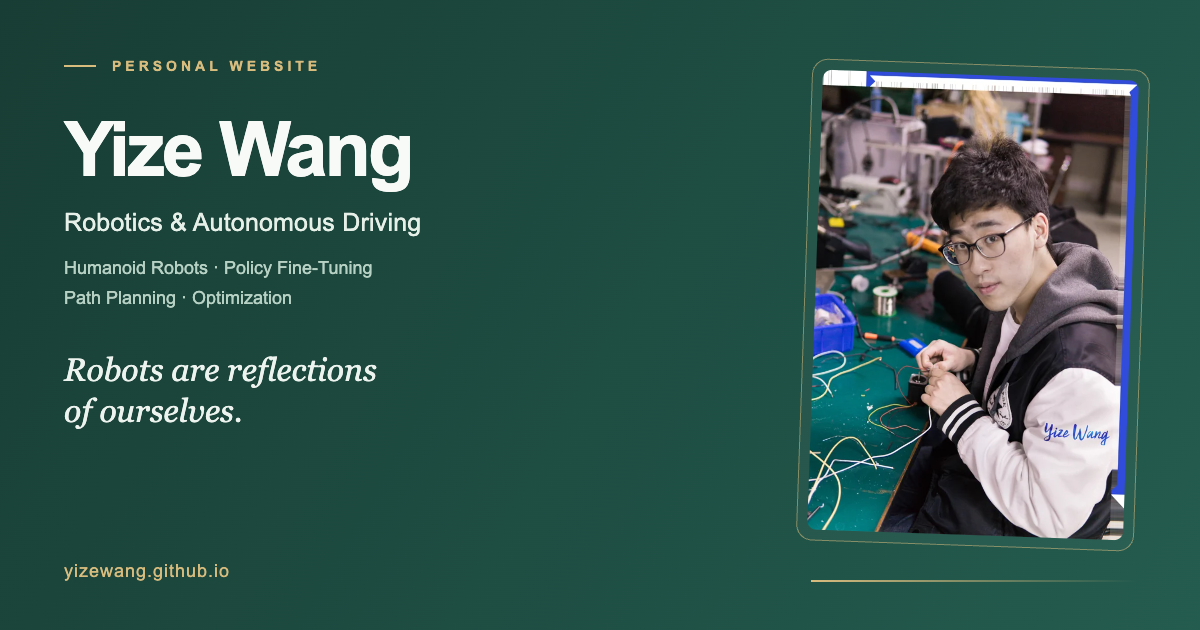
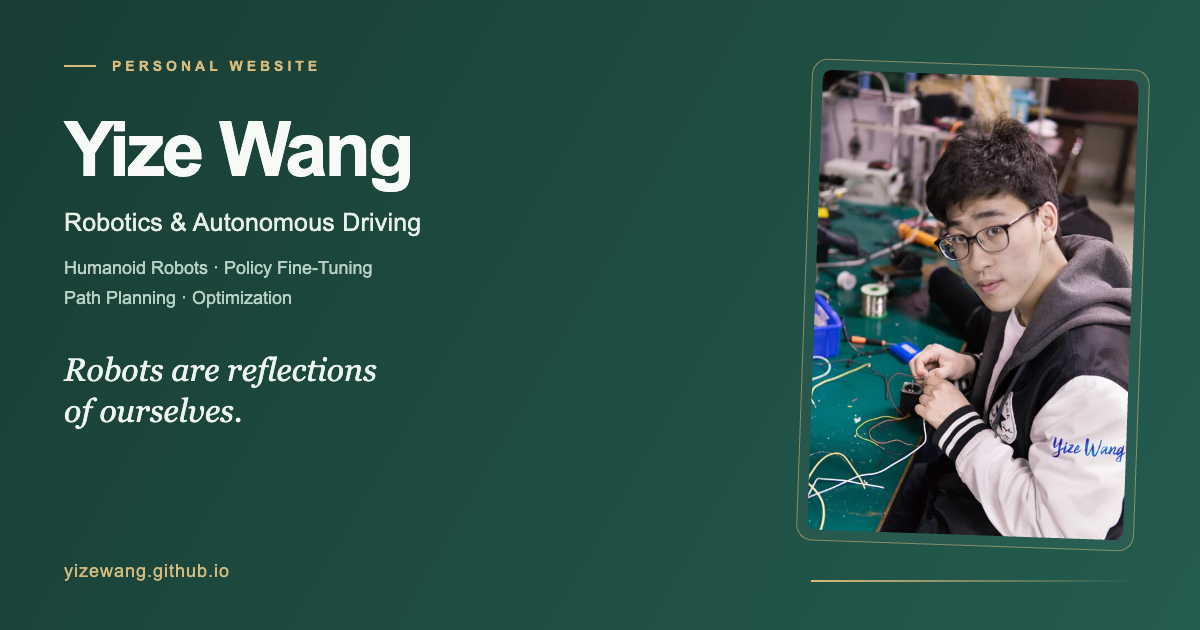
Crop embedded portrait borders from the social preview card

Changed region(s): [[0.6475, 0.0905, 0.9558, 0.8746]]

diff --git a/data/social-preview.html b/data/social-preview.html
@@ -1,3 +1,3 @@
 <!doctype html><html lang="en"><head><meta charset="utf-8"><style>
-*{box-sizing:border-box}html,body{margin:0;width:1200px;height:630px;overflow:hidden}body{font-family:Arial,sans-serif;background:#1d4b40;color:#f7faf7}.card{height:630px;position:relative;padding:58px 64px;background:linear-gradient(120deg,#183d34,#245c4f)}.top{font-size:14px;font-weight:600;letter-spacing:4px;color:#d8bc7e;display:flex;align-items:center;gap:16px}.top:before{content:'';width:32px;height:2px;background:#d8bc7e}h1{font-size:76px;letter-spacing:-3px;line-height:1.1;margin:34px 0 16px;font-weight:700}.role{font-size:25px;letter-spacing:.2px;color:#e6f0e9;margin:0}.focus{font-size:18px;color:#b8d1c5;margin:16px 0 0;line-height:1.7}.quote{font:italic 32px/1.3 Georgia,serif;color:#edf3ee;margin:36px 0 0}.url{position:absolute;left:64px;bottom:48px;font-size:18px;letter-spacing:1px;color:#d8bc7e}.photo-wrap{position:absolute;right:58px;top:64px;width:338px;height:482px;border:1px solid #d8bc7e88;border-radius:16px;padding:10px;background:#ffffff08;transform:rotate(2deg)}.photo{width:100%;height:100%;object-fit:cover;object-position:50% 30%;border-radius:9px}.rule{position:absolute;right:64px;bottom:48px;width:325px;height:2px;background:linear-gradient(90deg,#d8bc7e,#d8bc7e00)}
-</style></head><body><div class="card"><div class="top">PERSONAL WEBSITE</div><h1>Yize Wang</h1><p class="role">Robotics &amp; Autonomous Driving</p><p class="focus">Humanoid Robots · Policy Fine-Tuning<br>Path Planning · Optimization</p><p class="quote">Robots are reflections<br>of ourselves.</p><div class="url">yizewang.github.io</div><div class="photo-wrap"><img class="photo" src="../images/previews/portrait_orig.webp" alt="Yize Wang"></div><div class="rule"></div></div></body></html>
+*{box-sizing:border-box}html,body{margin:0;width:1200px;height:630px;overflow:hidden}body{font-family:Arial,sans-serif;background:#1d4b40;color:#f7faf7}.card{height:630px;position:relative;padding:58px 64px;background:linear-gradient(120deg,#183d34,#245c4f)}.top{font-size:14px;font-weight:600;letter-spacing:4px;color:#d8bc7e;display:flex;align-items:center;gap:16px}.top:before{content:'';width:32px;height:2px;background:#d8bc7e}h1{font-size:76px;letter-spacing:-3px;line-height:1.1;margin:34px 0 16px;font-weight:700}.role{font-size:25px;letter-spacing:.2px;color:#e6f0e9;margin:0}.focus{font-size:18px;color:#b8d1c5;margin:16px 0 0;line-height:1.7}.quote{font:italic 32px/1.3 Georgia,serif;color:#edf3ee;margin:36px 0 0}.url{position:absolute;left:64px;bottom:48px;font-size:18px;letter-spacing:1px;color:#d8bc7e}.photo-wrap{position:absolute;right:58px;top:64px;width:338px;height:482px;border:1px solid #d8bc7e88;border-radius:16px;padding:10px;background:#ffffff08;transform:rotate(2deg)}.photo-window{width:100%;height:100%;overflow:hidden;border-radius:9px}.photo{width:100%;height:100%;object-fit:cover;object-position:50% 30%;transform:scale(1.12)}.rule{position:absolute;right:64px;bottom:48px;width:325px;height:2px;background:linear-gradient(90deg,#d8bc7e,#d8bc7e00)}
+</style></head><body><div class="card"><div class="top">PERSONAL WEBSITE</div><h1>Yize Wang</h1><p class="role">Robotics &amp; Autonomous Driving</p><p class="focus">Humanoid Robots · Policy Fine-Tuning<br>Path Planning · Optimization</p><p class="quote">Robots are reflections<br>of ourselves.</p><div class="url">yizewang.github.io</div><div class="photo-wrap"><div class="photo-window"><img class="photo" src="../images/previews/portrait_orig.webp" alt="Yize Wang"></div></div><div class="rule"></div></div></body></html>

diff --git a/index.html b/index.html
@@ -5,8 +5,8 @@
 <meta name="color-scheme" content="light dark"><meta name="theme-color" content="#245c4f">
 <meta property="og:title" content="Yize Wang · Robotics & Autonomous Driving"><meta property="og:description" content="Robots are reflections of ourselves. Research, education, publications, and life.">
 <meta property="og:type" content="website"><meta property="og:url" content="https://yizewang.github.io/">
-<meta property="og:image" content="https://yizewang.github.io/images/social-preview.png"><meta property="og:image:width" content="1200"><meta property="og:image:height" content="630"><meta property="og:image:type" content="image/png"><meta property="og:image:alt" content="Yize Wang — Robotics and Autonomous Driving">
-<meta name="twitter:card" content="summary_large_image"><meta name="twitter:title" content="Yize Wang · Robotics & Autonomous Driving"><meta name="twitter:description" content="Robots are reflections of ourselves."><meta name="twitter:image" content="https://yizewang.github.io/images/social-preview.png"><meta name="twitter:image:alt" content="Yize Wang — Robotics and Autonomous Driving">
+<meta property="og:image" content="https://yizewang.github.io/images/social-preview.png?v=7784db7846c3"><meta property="og:image:width" content="1200"><meta property="og:image:height" content="630"><meta property="og:image:type" content="image/png"><meta property="og:image:alt" content="Yize Wang — Robotics and Autonomous Driving">
+<meta name="twitter:card" content="summary_large_image"><meta name="twitter:title" content="Yize Wang · Robotics & Autonomous Driving"><meta name="twitter:description" content="Robots are reflections of ourselves."><meta name="twitter:image" content="https://yizewang.github.io/images/social-preview.png?v=7784db7846c3"><meta name="twitter:image:alt" content="Yize Wang — Robotics and Autonomous Driving">
 <link rel="icon" href="images/previews/portrait_orig.webp"><link rel="stylesheet" href="css/site.css?v=d981952f29f3"><script src="js/site.js?v=4166dd9002e7" defer></script>
 </head><body><a class="skip-link" href="#main">Skip to content</a><aside id="sidebar" aria-label="Profile and navigation"><header>
 <img src="images/previews/portrait_orig.webp" alt="Yize Wang" width="558" height="800" decoding="async" fetchpriority="high">

diff --git a/scripts/build.py b/scripts/build.py
@@ -9,6 +9,7 @@ career_data = json.loads((ROOT / 'data/career.json').read_text())
 css_version = hashlib.sha256((ROOT / 'css/site.css').read_bytes()).hexdigest()[:12]
 js_version = hashlib.sha256((ROOT / 'js/site.js').read_bytes()).hexdigest()[:12]
 icons_version = hashlib.sha256((ROOT / 'images/social-icons.svg').read_bytes()).hexdigest()[:12]
+share_version = hashlib.sha256((ROOT / 'images/social-preview.png').read_bytes()).hexdigest()[:12]
 
 def title_words(s):
     """Keep articles and short prepositions/conjunctions lowercase within titles."""
@@ -63,8 +64,8 @@ parts = [f'''<!doctype html>
 <meta name="color-scheme" content="light dark"><meta name="theme-color" content="#245c4f">
 <meta property="og:title" content="Yize Wang · Robotics & Autonomous Driving"><meta property="og:description" content="Robots are reflections of ourselves. Research, education, publications, and life.">
 <meta property="og:type" content="website"><meta property="og:url" content="https://yizewang.github.io/">
-<meta property="og:image" content="https://yizewang.github.io/images/social-preview.png"><meta property="og:image:width" content="1200"><meta property="og:image:height" content="630"><meta property="og:image:type" content="image/png"><meta property="og:image:alt" content="Yize Wang — Robotics and Autonomous Driving">
-<meta name="twitter:card" content="summary_large_image"><meta name="twitter:title" content="Yize Wang · Robotics & Autonomous Driving"><meta name="twitter:description" content="Robots are reflections of ourselves."><meta name="twitter:image" content="https://yizewang.github.io/images/social-preview.png"><meta name="twitter:image:alt" content="Yize Wang — Robotics and Autonomous Driving">
+<meta property="og:image" content="https://yizewang.github.io/images/social-preview.png?v={share_version}"><meta property="og:image:width" content="1200"><meta property="og:image:height" content="630"><meta property="og:image:type" content="image/png"><meta property="og:image:alt" content="Yize Wang — Robotics and Autonomous Driving">
+<meta name="twitter:card" content="summary_large_image"><meta name="twitter:title" content="Yize Wang · Robotics & Autonomous Driving"><meta name="twitter:description" content="Robots are reflections of ourselves."><meta name="twitter:image" content="https://yizewang.github.io/images/social-preview.png?v={share_version}"><meta name="twitter:image:alt" content="Yize Wang — Robotics and Autonomous Driving">
 <link rel="icon" href="images/previews/portrait_orig.webp"><link rel="stylesheet" href="css/site.css?v={css_version}"><script src="js/site.js?v={js_version}" defer></script>
 </head><body><a class="skip-link" href="#main">Skip to content</a><aside id="sidebar" aria-label="Profile and navigation"><header>''',
  img(d['portrait'], 'Yize Wang', True),
